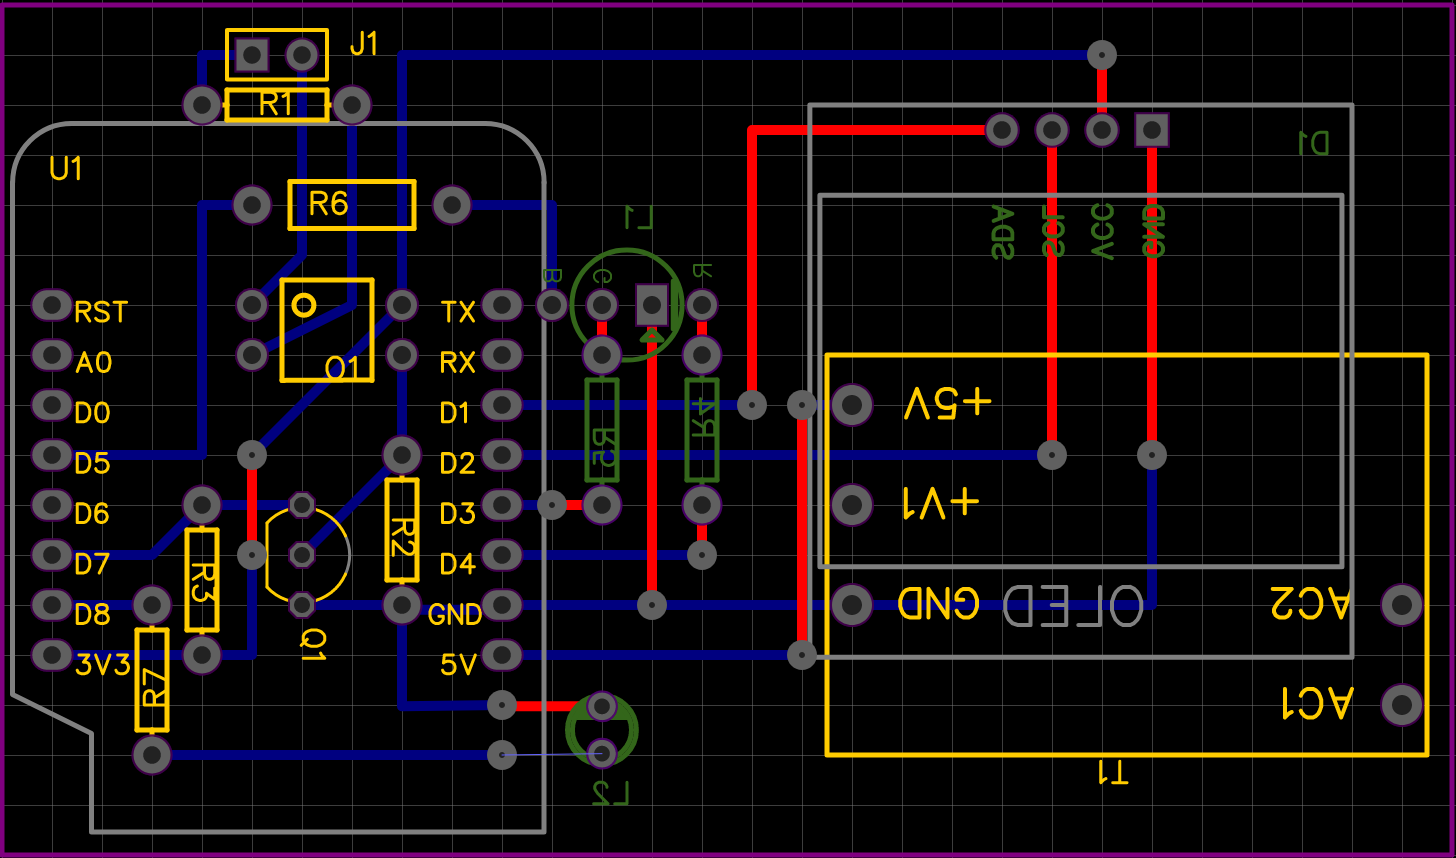
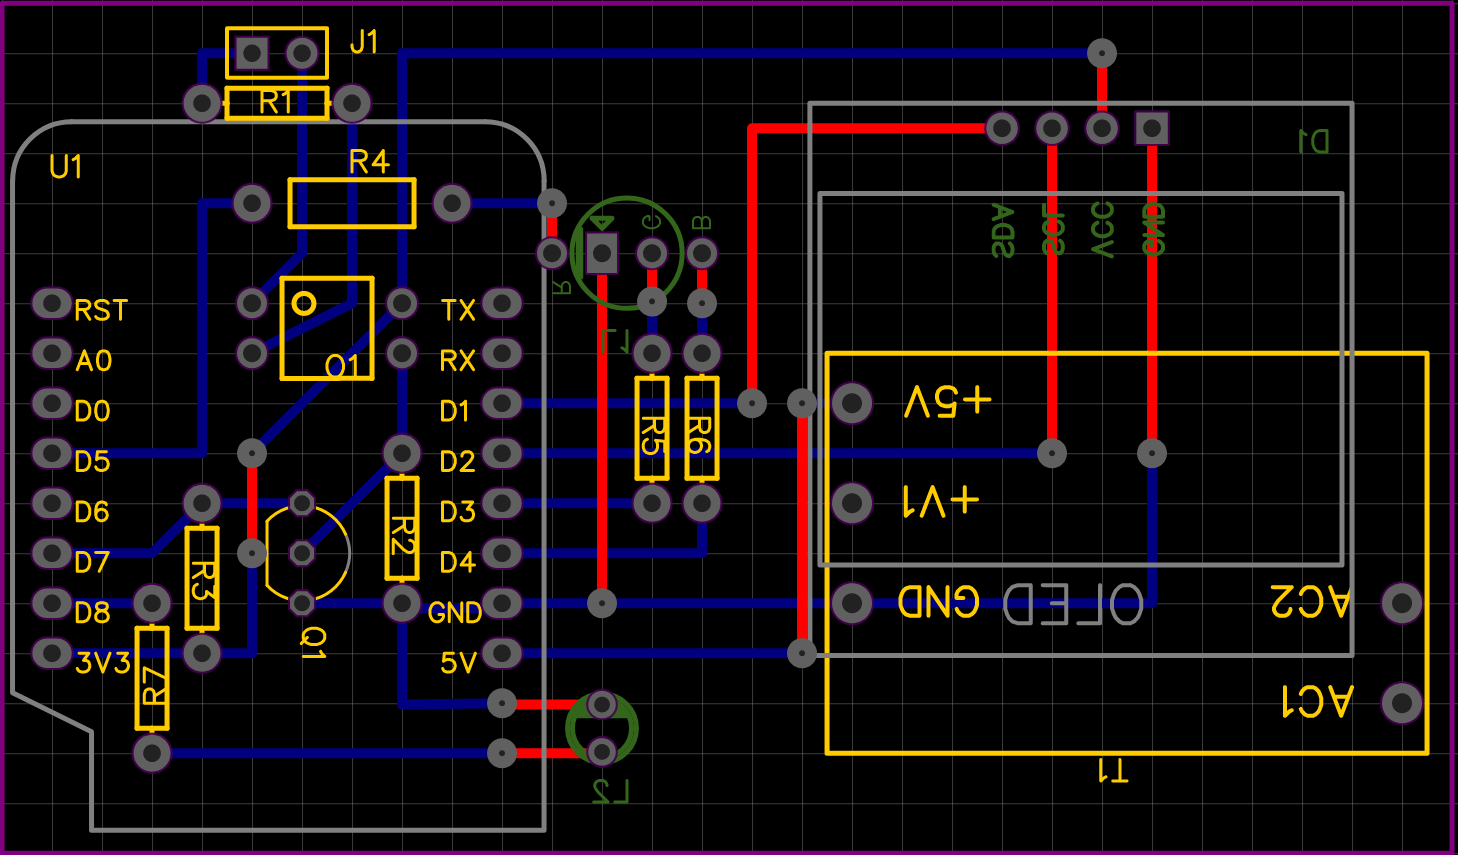
Invert RGB Led GPIO, to get blue light on OTA Update or reboot

diff --git a/EspTeleInfo/EspTeleInfo.h b/EspTeleInfo/EspTeleInfo.h
@@ -50,14 +50,14 @@ extern "C" {
 #include "PString.h"
 
 // Version #################################################################
-#define ESPTELEINFO_VERSION "2.1.0b1"
+#define ESPTELEINFO_VERSION "2.1.0b2"
 
 
 // Pins ###########################################################
 #define RED_LED_PIN		12	//D8
-#define RGB_LED_PIN_R	2		//D4
+#define RGB_LED_PIN_R	14	//D5
 #define RGB_LED_PIN_G	0		//D3
-#define RGB_LED_PIN_B	14	//D5
+#define RGB_LED_PIN_B	2		//D4
 
 // Settings #######################################################
 //#define OLED_PIN_SDA  4
